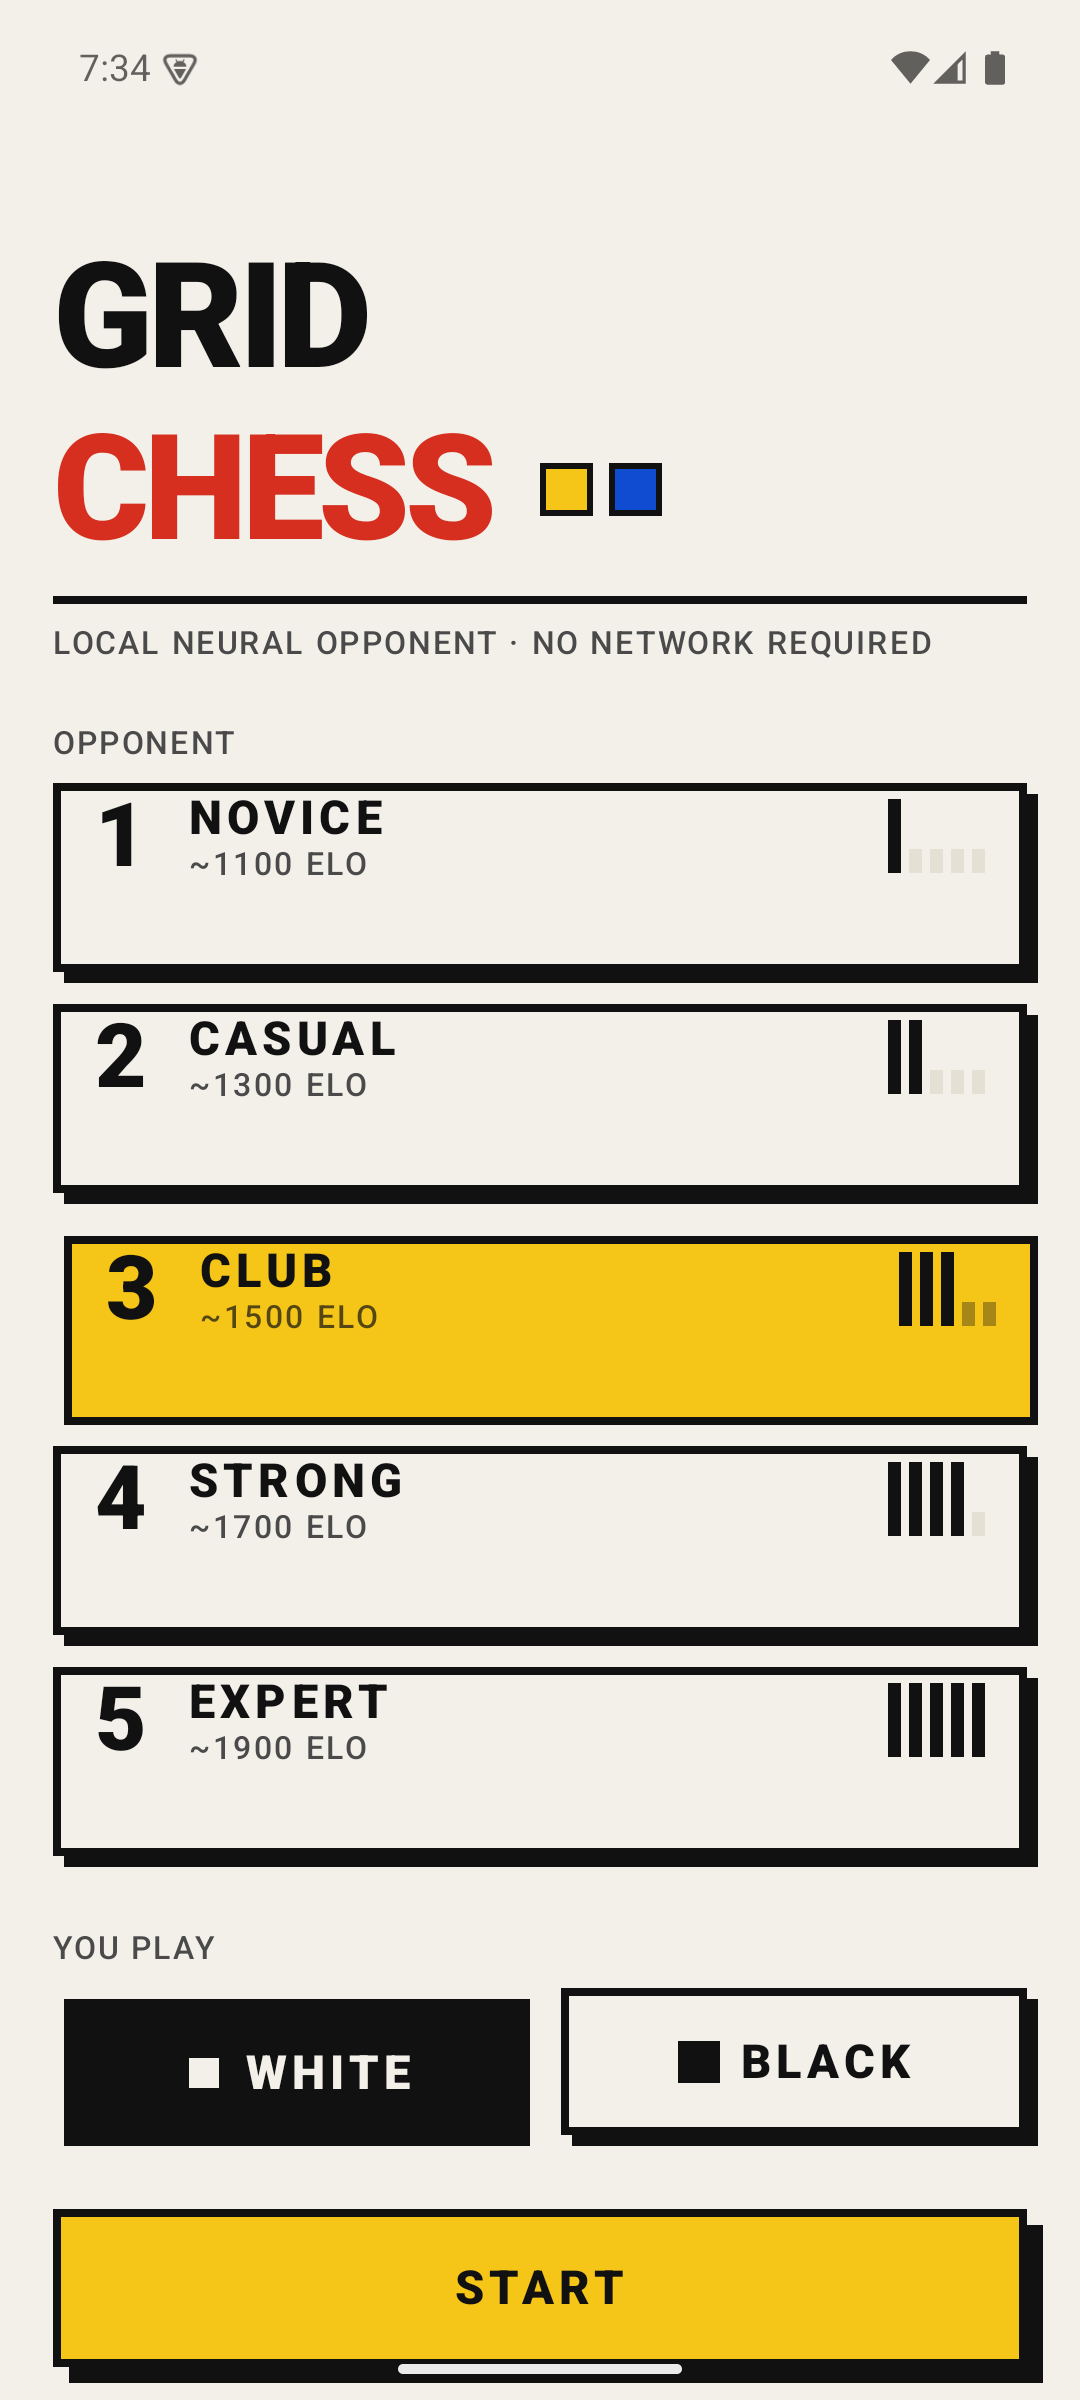
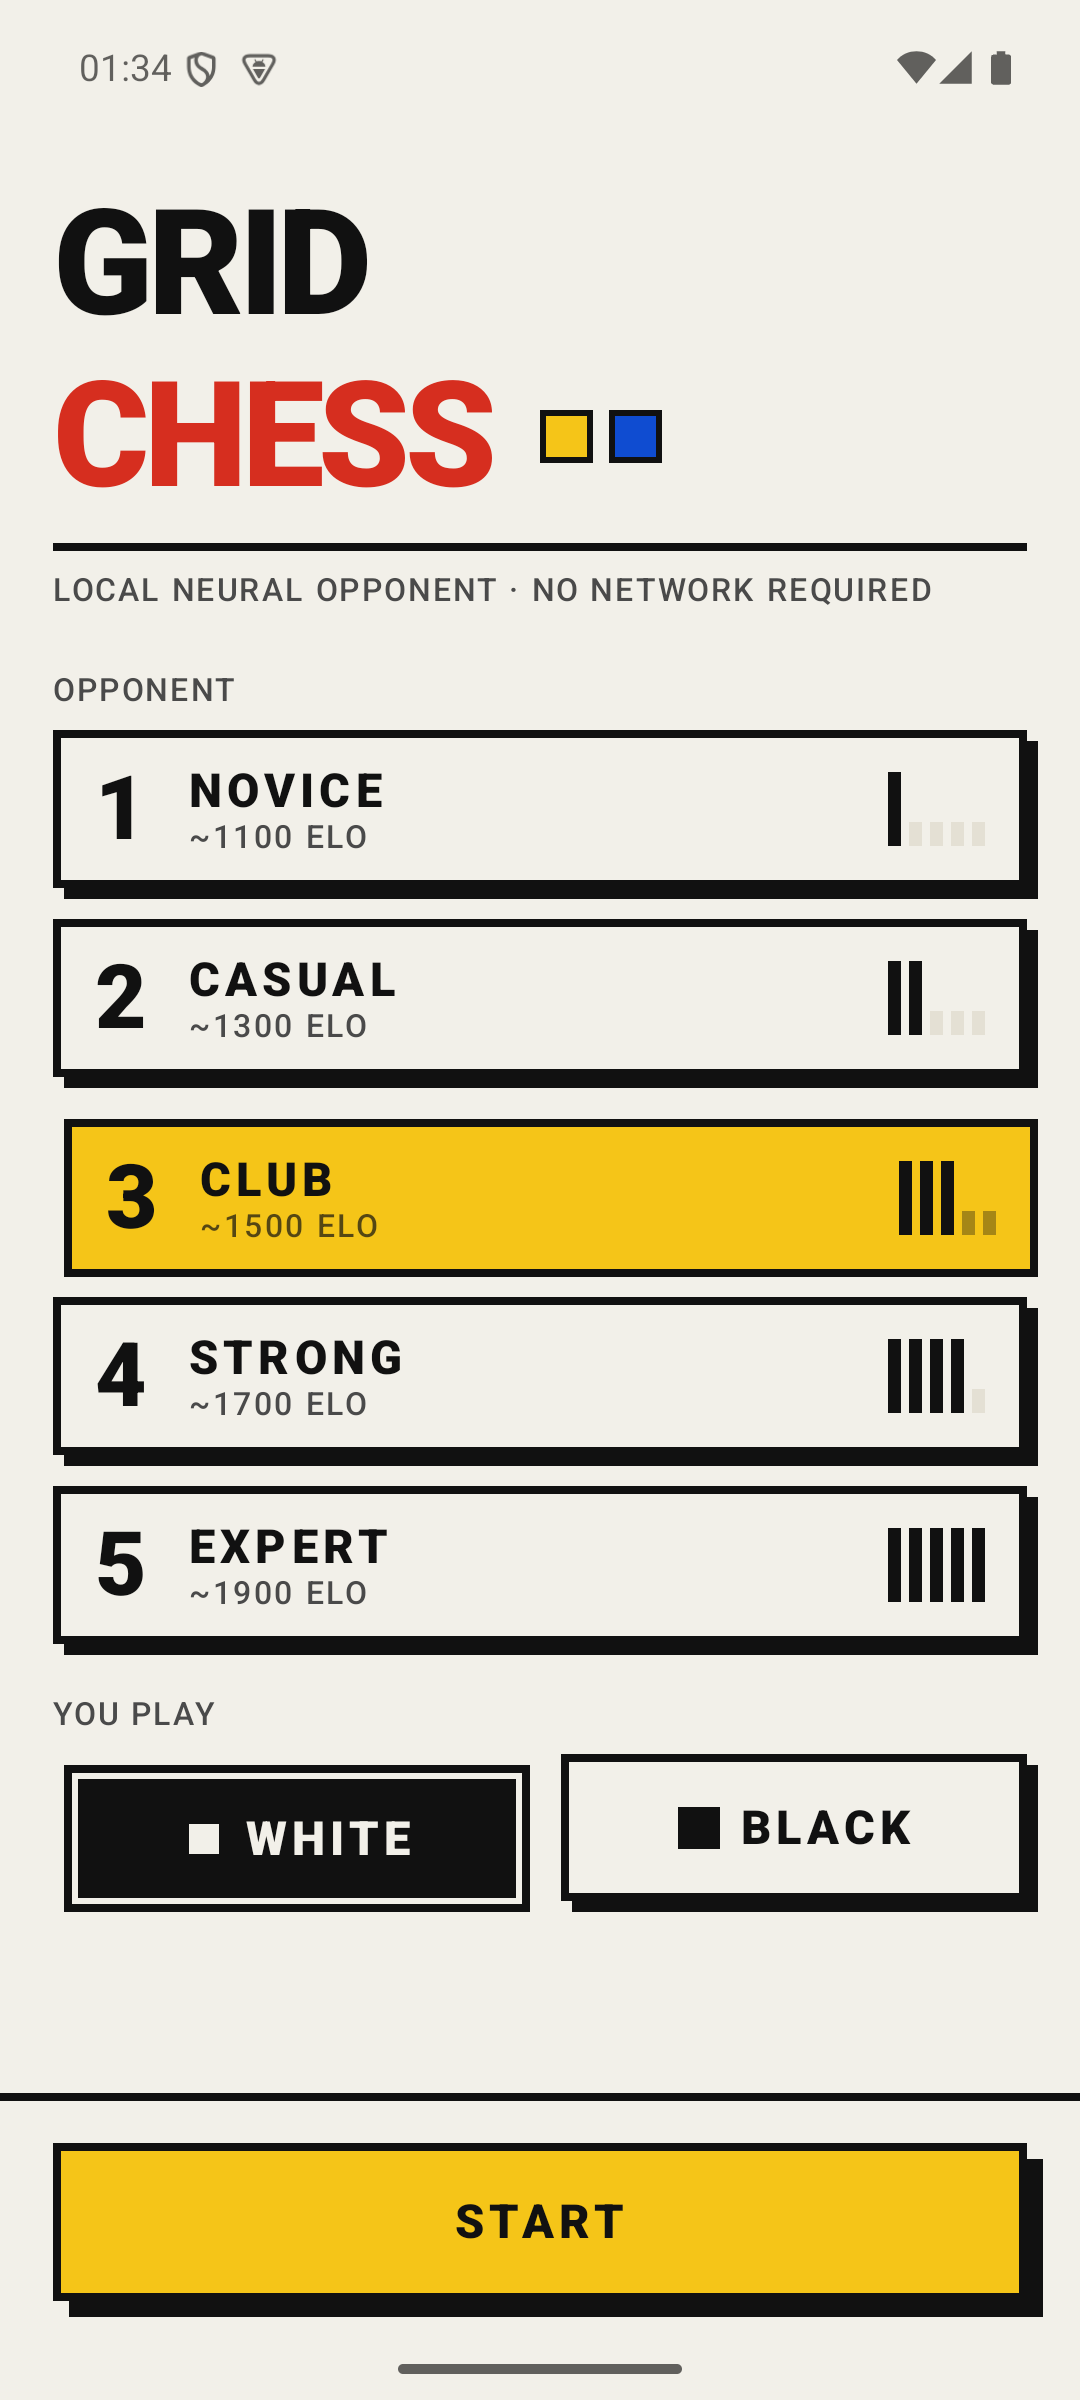
Release 0.1.2; cut the README to the essentials

diff --git a/README.md b/README.md
@@ -1,7 +1,6 @@
 <h1>GRID CHESS</h1>
 
-Chess against a neural network that runs entirely on the phone. No server, no
-API key, no `INTERNET` permission in the manifest.
+Chess against a neural network that runs on the phone. No server, no internet permission.
 
 <p>
   <a href="../../releases/latest"><img alt="Download APK" src="https://img.shields.io/badge/download-APK-111111?style=for-the-badge"></a>
@@ -16,137 +15,33 @@ API key, no `INTERNET` permission in the manifest.
     <td><img src="docs/screenshots/03-drag.png" width="260" alt="Dragging the light-squared bishop, its whole diagonal lit"></td>
   </tr>
   <tr>
-    <td align="center"><sub>Five nets, not one throttled five ways</sub></td>
+    <td align="center"><sub>Five levels, five nets</sub></td>
     <td align="center"><sub>The Scotch, played by maia-1500</sub></td>
-    <td align="center"><sub>Drag or tap-tap, both work</sub></td>
+    <td align="center"><sub>Drag or tap-tap</sub></td>
   </tr>
 </table>
 
-## The opponent
+## Opponent
 
-Five difficulty levels are five separate [Maia](https://github.com/CSSLab/maia-chess)
-networks, each trained only on games played by humans in one rating band:
+Each level is a separate [Maia](https://github.com/CSSLab/maia-chess) net, from maia-1100 to maia-1900. Maia was trained on human games in one rating band, so it makes the mistakes a player of that rating makes. There is no search: one forward pass picks the move in 4–8 ms.
 
-| Level | Name   | Net       | Elo band | Move choice        | Blunder guard |
-|-------|--------|-----------|----------|--------------------|---------------|
-| 1     | Novice | maia-1100 | ~1100    | sampled, T = 0.85  | off           |
-| 2     | Casual | maia-1300 | ~1300    | sampled, T = 0.70  | off           |
-| 3     | Club   | maia-1500 | ~1500    | sampled, T = 0.50  | off           |
-| 4     | Strong | maia-1700 | ~1700    | sampled, T = 0.30  | on            |
-| 5     | Expert | maia-1900 | ~1900    | argmax             | on            |
-
-**There is no tree search.** One forward pass through the policy head picks the
-move — measured at 4–8 ms on a Pixel 7, so the visible "thinking" pause is an
-artificial 420 ms floor rather than real work.
-
-That is the point. A depth-limited Stockfish is stronger, but its mistakes are
-alien: it plays three brilliant moves and then hangs a rook for no reason a human
-would recognise. Maia was trained to predict *the move a human of that rating
-actually played*, mistakes included, so its errors are the ones you know from
-your own games. Search would sand exactly that off.
-
-The one concession is the blunder guard at levels 4–5, where a hung queen reads
-as a broken app rather than a human mistake. It runs a capture-only three-ply
-material probe over the top few policy moves and rejects the sampled move when a
-near-equally-likely one is at least a minor piece sounder. Levels 1–3 have it off
-on purpose — hanging pieces *is* the 1100–1500 experience.
+Levels 4 and 5 check the top moves with a short capture probe, so the engine won't hang its queen. Levels 1–3 skip the check. At 1100–1500, people hang pieces.
 
 ## Design
 
-Neo-brutalism on a Bauhaus vocabulary, and it goes all the way down to the
-pieces: **king is a cross, queen an arch, rook a square, bishop a diamond, knight
-a triangle, pawn a circle.** No lettering, no colour cue — silhouette alone
-carries identity, and scale ranks it.
+Neo-brutalism with Bauhaus shapes. The king is a cross, queen an arch, rook a square, bishop a diamond, knight a triangle, pawn a circle. Move by tapping or dragging.
 
-Everything is built from one primitive, `BrutalSlab`: a flat panel with a hard
-black border and an unblurred offset shadow. Pressing drives the slab *into* its
-own shadow instead of lifting it. Zero corner radius anywhere; the corner is the
-statement. Colour is a signal, never decoration — one Bauhaus primary per screen
-region, everything else ink on paper.
-
-The theme is deliberately light-only. Neo-brutalism is a high-contrast
-ink-on-paper idiom, and a dimmed variant of it reads as a bug rather than a mode.
-
-Moves go in either way: tap the piece then the square, or drag it. Both feed the
-same path — a drag start selects, a drop plays — so there is one set of move rules
-to get wrong instead of two. The piece in hand stays centred on the finger rather
-than raised above it: raising reads better under a thumb but splits what you see
-from where it lands, so the blue frame around the pointer does the aiming instead.
-
-## How the engine talks to the net
-
-The fiddly part is lc0's input format, and two things in it are easy to get
-wrong in a way that would never crash — the net would just quietly play worse.
-
-**The 112 input planes** (`LeelaEncoder.kt`) are written from the moving side's
-perspective: "ours" is always the mover, and for Black the board is rank-mirrored.
-That holds for the eight history steps too — a position from one ply ago is
-re-oriented into the *current* mover's frame rather than its own. Missing history
-at the start of a game stays zero, matching how lc0 plays out from the start
-position.
-
-**The 1858-entry policy vector** (`PolicyIndex.kt`) is likewise written from the
-mover's perspective, so Black's moves are rank-mirrored before lookup. And only
-queen, rook and bishop promotions carry a suffix (indices 1792–1857); a knight
-promotion is stored as the plain four-character move. There is no `a7a8n`.
-
-Both are pinned by unit tests. `tools/verify_encoder.py` goes further: it mirrors
-the Kotlin encoder in Python and diffs it against the tensor lc0 itself produces,
-across openings, colour flips, castling changes and repetitions.
-
-```
-  ok     0 plies  (start)
-  ok     1 plies  e2e4
-  ok     6 plies  e2e4 e7e5 g1f3 b8c6 f1b5 a7a6
-  ok    10 plies  d2d4 g8f6 c2c4 e7e6 g1f3 d7d5 b1c3 f8e7 c1g5 e8g8
-  ok     6 plies  g1f3 g8f6 f3g1 f6g8 g1f3 g8f6
-All positions match lc0
-```
-
-## Building
-
-Requires JDK 21 and the Android SDK (platform 35, build-tools 35). On macOS:
+## Build
 
 ```bash
-brew install openjdk@21
+brew install openjdk@21 lc0
 brew install --cask android-commandlinetools
-```
-
-Then fetch and convert the networks — they are not committed, since they are
-GPL-3 artefacts belonging to CSSLab rather than to this project:
-
-```bash
-brew install lc0
-python3 tools/export_maia.py
-```
-
-That downloads the five `.pb.gz` weight files and runs each through lc0's
-`leela2onnx`, landing them in `app/src/main/assets/models/`. Without them the app
-still builds and runs — the engine falls back to random legal moves and logs the
-failure — so the build never depends on the download.
-
-```bash
+python3 tools/export_maia.py   # downloads the nets and converts them to ONNX
 ./gradlew :app:assembleDebug
-./gradlew :app:testDebugUnitTest
 ```
 
-Release builds are signed from a `keystore.properties` in the project root
-(gitignored). Without that file the release build still succeeds and simply comes
-out unsigned.
-
-APKs are split per ABI, because ONNX Runtime carries a ~17 MB native library for
-each one. arm64-v8a comes out at 35 MB: 17 MB of runtime, 17 MB of nets, and
-1.6 MB of everything else.
+Without the nets the app still builds and plays random legal moves. Release signing reads `keystore.properties` from the project root.
 
 ## Licence
 
-GPL-3.0 — see [LICENSE](LICENSE) and [NOTICE](NOTICE).
-
-The released APK embeds the Maia networks, which are GPL-3, and that licence
-propagates to the whole binary. The source is licensed to match rather than
-claiming a permissiveness the distributed artefact cannot have.
-
-Maia is the work of [CSSLab at the University of Toronto](https://github.com/CSSLab/maia-chess)
-— McIlroy-Young, Sen, Kleinberg and Anderson, *Aligning Superhuman AI with Human
-Behavior: Chess as a Model System*, KDD 2020. This project only packages it for
-Android; the interesting part is theirs.
+GPL-3.0, because the bundled Maia nets are GPL-3. See [LICENSE](LICENSE) and [NOTICE](NOTICE). Maia is by [CSSLab, University of Toronto](https://github.com/CSSLab/maia-chess): McIlroy-Young, Sen, Kleinberg, Anderson, KDD 2020.

diff --git a/docs/release-notes-v0.1.2.md b/docs/release-notes-v0.1.2.md
@@ -1,0 +1,5 @@
+Start is pinned to the bottom of the home screen, so small phones no longer scroll to reach it. Black buttons get a white inner line and no longer merge with their shadow.
+
+Most phones want `arm64-v8a`. If unsure, take `universal`.
+
+<img src="https://raw.githubusercontent.com/solidens/grid-chess/main/docs/screenshots/01-levels.png" width="260">
